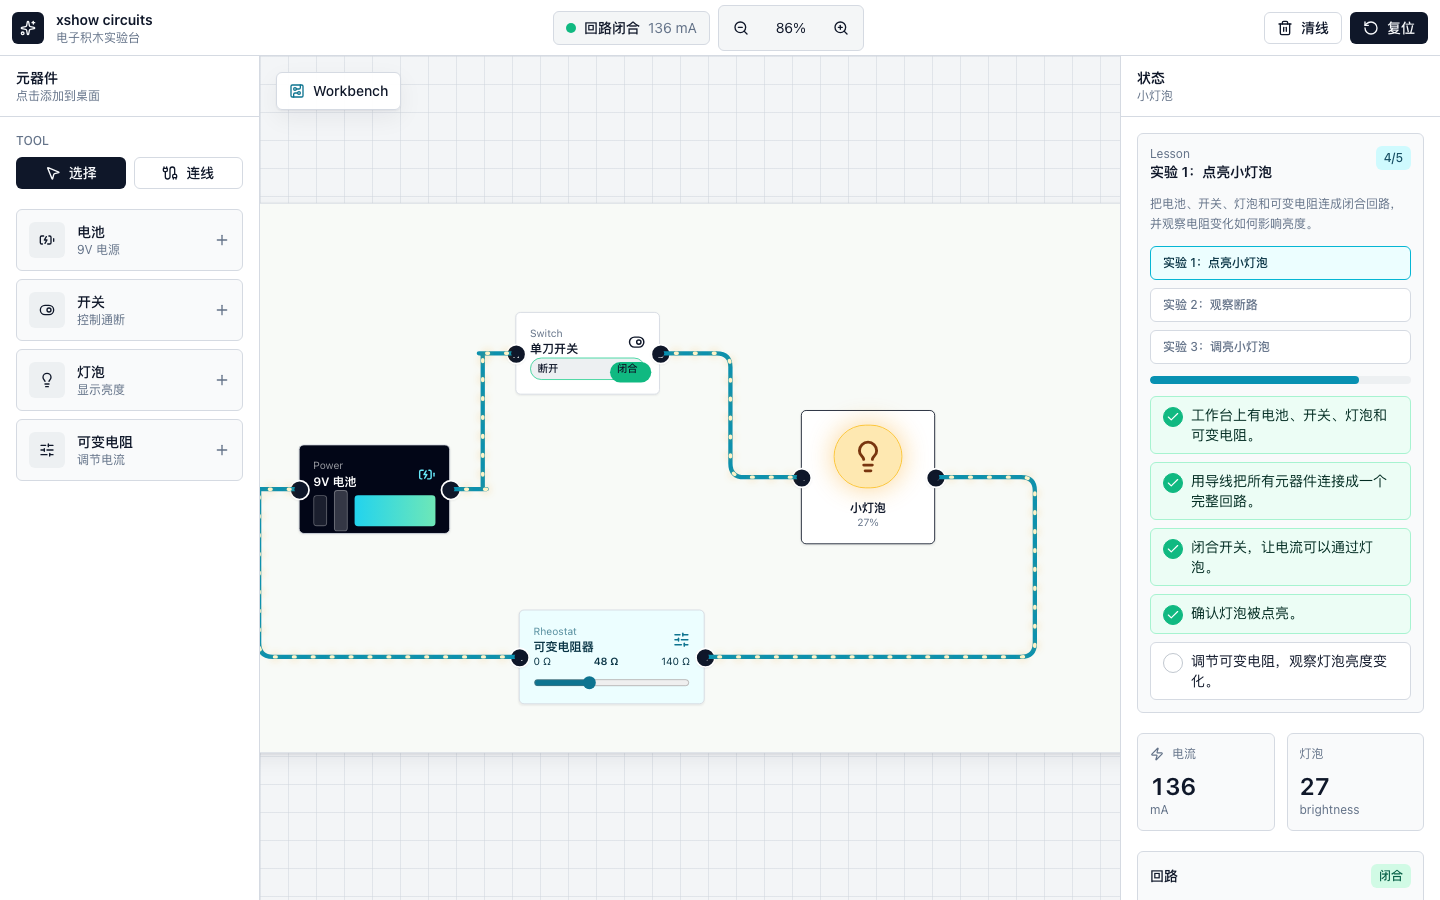
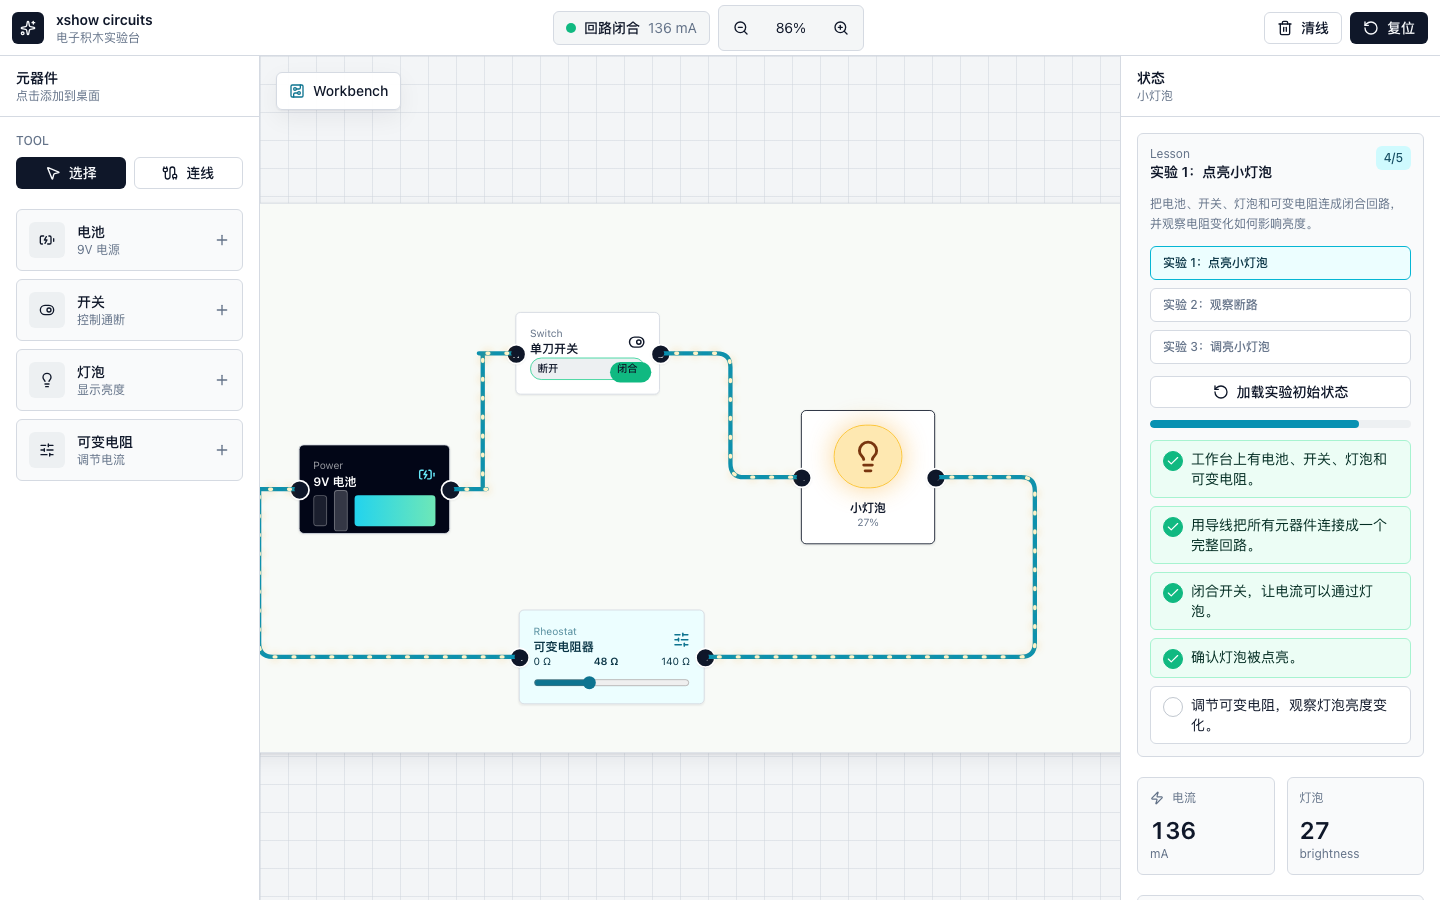
feat: add lesson starter workspaces

Changed region(s): [[0.7812, 0.4044, 1.0, 0.9956], [0.7812, 0.9644, 0.8438, 0.9956]]

diff --git a/src/views/Home.vue b/src/views/Home.vue
@@ -1,6 +1,6 @@
 <script setup lang="ts">
 import { computed, ref } from "vue";
-import { lessonCatalog, type LessonCheckId } from "@/data/lessons";
+import { lessonCatalog, type LessonCheckId, type LessonWorkspace } from "@/data/lessons";
 import {
   BatteryCharging,
   Cable,
@@ -237,6 +237,16 @@ const lessonProgress = computed(() => {
     total,
   };
 });
+
+function clearInteractionState() {
+  selectedTerminal.value = null;
+  selectedWireId.value = null;
+  hoveredWireId.value = null;
+  hoveredEndpoint.value = null;
+  rewiring.value = null;
+  endpointDrag.value = null;
+  dragging.value = null;
+}
 
 function getSpec(part: CircuitPart | PartType) {
   return partSpecs[typeof part === "string" ? part : part.type];
@@ -795,11 +805,7 @@ function addPart(type: PartType) {
   }
 
   parts.value.push(nextPart);
-  selectedWireId.value = null;
-  hoveredWireId.value = null;
-  hoveredEndpoint.value = null;
-  rewiring.value = null;
-  endpointDrag.value = null;
+  clearInteractionState();
   selectedPartId.value = nextPart.id;
   board.setTool("select");
 }
@@ -815,10 +821,7 @@ function removeSelectedPart() {
     (wire) => wire.from.partId !== selected.id && wire.to.partId !== selected.id,
   );
   selectedPartId.value = parts.value[0]?.id ?? "";
-  selectedTerminal.value = null;
-  selectedWireId.value = null;
-  rewiring.value = null;
-  endpointDrag.value = null;
+  clearInteractionState();
 }
 
 function removeWire(wireId: string) {
@@ -846,52 +849,34 @@ function removeWire(wireId: string) {
 
 function clearWires() {
   wires.value = [];
-  selectedTerminal.value = null;
-  selectedWireId.value = null;
-  hoveredWireId.value = null;
-  hoveredEndpoint.value = null;
-  rewiring.value = null;
-  endpointDrag.value = null;
+  clearInteractionState();
+}
+
+function loadWorkspace(workspace: LessonWorkspace) {
+  parts.value = workspace.parts.map((part) => ({ ...part }));
+  wires.value = workspace.wires.map((wire) => ({
+    ...wire,
+    from: { ...wire.from },
+    to: { ...wire.to },
+  }));
+  selectedPartId.value = workspace.selectedPartId;
+  clearInteractionState();
+  board.setZoom(workspace.zoom);
+  board.setTool("select");
+}
+
+function loadLessonWorkspace(lessonId = activeLesson.value.id) {
+  const lesson = lessonCatalog.find((item) => item.id === lessonId) ?? activeLesson.value;
+  activeLessonId.value = lesson.id;
+  loadWorkspace(lesson.starterWorkspace);
 }
 
 function resetDemo() {
-  parts.value = [
-    { id: "battery-1", name: "9V 电池", type: "battery", x: 74, y: 280 },
-    { id: "switch-1", name: "单刀开关", type: "switch", x: 326, y: 126, closed: true },
-    { id: "bulb-1", name: "小灯泡", type: "bulb", x: 658, y: 240 },
-    { id: "resistor-1", name: "可变电阻器", type: "resistor", x: 330, y: 472, resistance: 48 },
-  ];
-  wires.value = [
-    {
-      id: "wire-1",
-      from: { partId: "battery-1", terminal: "b" },
-      to: { partId: "switch-1", terminal: "a" },
-    },
-    {
-      id: "wire-2",
-      from: { partId: "switch-1", terminal: "b" },
-      to: { partId: "bulb-1", terminal: "a" },
-    },
-    {
-      id: "wire-3",
-      from: { partId: "bulb-1", terminal: "b" },
-      to: { partId: "resistor-1", terminal: "b" },
-    },
-    {
-      id: "wire-4",
-      from: { partId: "resistor-1", terminal: "a" },
-      to: { partId: "battery-1", terminal: "a" },
-    },
-  ];
-  selectedPartId.value = "bulb-1";
-  selectedTerminal.value = null;
-  selectedWireId.value = null;
-  hoveredWireId.value = null;
-  hoveredEndpoint.value = null;
-  rewiring.value = null;
-  endpointDrag.value = null;
-  board.setZoom(86);
-  board.setTool("select");
+  const demoLesson = lessonCatalog.find((lesson) => lesson.id === "open-the-circuit") ?? lessonCatalog[0];
+  loadWorkspace({
+    ...demoLesson.starterWorkspace,
+    selectedPartId: "bulb-1",
+  });
 }
 
 function toggleSwitch(part: CircuitPart) {
@@ -1396,6 +1381,10 @@ function evaluateCircuit(sourceParts: CircuitPart[], sourceWires: Wire[]) {
                 <span class="block truncate font-medium">{{ lesson.title }}</span>
               </button>
             </div>
+            <Button class="mb-3 w-full" variant="outline" size="sm" @click="loadLessonWorkspace()">
+              <RotateCcw class="h-4 w-4" />
+              加载实验初始状态
+            </Button>
             <div class="mb-3 h-2 overflow-hidden rounded-full bg-muted">
               <div
                 class="h-full rounded-full bg-cyan-600 transition-all"

diff --git a/src/data/lessons.ts b/src/data/lessons.ts
@@ -10,6 +10,39 @@ export type LessonCheckId =
   | "hasLowResistance"
   | "hasAdjustedResistor";
 
+export type LessonPartType = "battery" | "bulb" | "switch" | "resistor";
+
+export type LessonTerminalKey = "a" | "b";
+
+export type LessonWorkspacePart = {
+  closed?: boolean;
+  id: string;
+  name: string;
+  resistance?: number;
+  type: LessonPartType;
+  x: number;
+  y: number;
+};
+
+export type LessonWorkspaceWire = {
+  from: {
+    partId: string;
+    terminal: LessonTerminalKey;
+  };
+  id: string;
+  to: {
+    partId: string;
+    terminal: LessonTerminalKey;
+  };
+};
+
+export type LessonWorkspace = {
+  parts: LessonWorkspacePart[];
+  selectedPartId: string;
+  wires: LessonWorkspaceWire[];
+  zoom: number;
+};
+
 export type LessonStep = {
   checkId: LessonCheckId;
   description: string;
@@ -19,15 +52,54 @@ export type LessonStep = {
 export type Lesson = {
   id: string;
   objective: string;
+  starterWorkspace: LessonWorkspace;
   steps: LessonStep[];
   title: string;
 };
+
+const connectedLoopWires: LessonWorkspaceWire[] = [
+  {
+    id: "wire-1",
+    from: { partId: "battery-1", terminal: "b" },
+    to: { partId: "switch-1", terminal: "a" },
+  },
+  {
+    id: "wire-2",
+    from: { partId: "switch-1", terminal: "b" },
+    to: { partId: "bulb-1", terminal: "a" },
+  },
+  {
+    id: "wire-3",
+    from: { partId: "bulb-1", terminal: "b" },
+    to: { partId: "resistor-1", terminal: "b" },
+  },
+  {
+    id: "wire-4",
+    from: { partId: "resistor-1", terminal: "a" },
+    to: { partId: "battery-1", terminal: "a" },
+  },
+];
+
+function starterParts({ resistance = 48, switchClosed = true } = {}): LessonWorkspacePart[] {
+  return [
+    { id: "battery-1", name: "9V 电池", type: "battery", x: 74, y: 280 },
+    { id: "switch-1", name: "单刀开关", type: "switch", x: 326, y: 126, closed: switchClosed },
+    { id: "bulb-1", name: "小灯泡", type: "bulb", x: 658, y: 240 },
+    { id: "resistor-1", name: "可变电阻器", type: "resistor", x: 330, y: 472, resistance },
+  ];
+}
 
 export const lessonCatalog: Lesson[] = [
   {
     id: "light-the-bulb",
     title: "实验 1：点亮小灯泡",
     objective: "把电池、开关、灯泡和可变电阻连成闭合回路，并观察电阻变化如何影响亮度。",
+    starterWorkspace: {
+      parts: starterParts(),
+      selectedPartId: "battery-1",
+      wires: [],
+      zoom: 86,
+    },
     steps: [
       {
         id: "parts",
@@ -60,6 +132,12 @@ export const lessonCatalog: Lesson[] = [
     id: "open-the-circuit",
     title: "实验 2：观察断路",
     objective: "通过开关断开回路，观察电流动画和灯泡亮度如何立即消失。",
+    starterWorkspace: {
+      parts: starterParts(),
+      selectedPartId: "switch-1",
+      wires: connectedLoopWires,
+      zoom: 86,
+    },
     steps: [
       {
         id: "parts",
@@ -87,6 +165,12 @@ export const lessonCatalog: Lesson[] = [
     id: "dim-the-bulb",
     title: "实验 3：调亮小灯泡",
     objective: "保持回路闭合，降低可变电阻阻值，观察灯泡亮度随电流增强而变亮。",
+    starterWorkspace: {
+      parts: starterParts({ resistance: 96 }),
+      selectedPartId: "resistor-1",
+      wires: connectedLoopWires,
+      zoom: 86,
+    },
     steps: [
       {
         id: "closed-switch",

diff --git a/docs/ROADMAP.md b/docs/ROADMAP.md
@@ -8,14 +8,14 @@ The project should stay visual, approachable, and immediate: users should be abl
 
 ## Progress
 
-Current focus: **expanding guided lessons, circuit examples, and lesson starters**.
+Current focus: **expanding circuit examples and guided lesson starters**.
 
 | Area | Status | Notes |
 | --- | --- | --- |
 | Interactive circuit playground | Done | Battery, switch, bulb, resistor, wires, brightness, and circuit state are working. |
 | Wire selection and reconnecting | Done for v0.1 | Wires can be selected, deleted, reconnected, snapped to nearby terminals, show clearer hover/drag/drop feedback, and use more readable orthogonal routing. |
 | Current direction animation | Done | Closed circuits now show animated current flow on energized wires. Further polish remains possible. |
-| Guided lesson mode | Expanding | Lesson content lives in editable data, multiple lesson experiments are available, and the panel checks simple circuit goals automatically. |
+| Guided lesson mode | Expanding | Lesson content and starter workspaces live in editable data, multiple lesson experiments are available, and the panel checks simple circuit goals automatically. |
 
 ## Near Term
 
@@ -50,7 +50,8 @@ Status: **Expanding**
 - [x] Allow switching between multiple guided experiments
 - [x] Provide simple success checks, such as "the bulb is on"
 - [x] Keep lesson content editable in plain data files
-- [ ] Add one-click starter workspaces for each lesson
+- [x] Add one-click starter workspaces for each lesson
+- [ ] Add lesson-level hints for the next incomplete step
 
 ### More circuit examples
 

diff --git a/docs/ROADMAP.zh-CN.md b/docs/ROADMAP.zh-CN.md
@@ -6,14 +6,14 @@
 
 ## 当前进度
 
-当前重点：**扩展引导式实验、电路示例和实验初始状态**。
+当前重点：**扩展电路示例和引导式实验初始状态**。
 
 | 方向 | 状态 | 说明 |
 | --- | --- | --- |
 | 交互式电路实验台 | 已完成 | 电池、开关、灯泡、可变电阻、导线、亮度和回路状态已经可用。 |
 | 导线选择和重接 | v0.1 已完成 | 导线可以选中、删除、拖动端点重接，也会吸附到附近端子，并且有更清晰的 hover、拖拽、释放反馈和更易读的正交折线走线。 |
 | 电流方向动画 | 已完成 | 闭合回路中的通电导线已经有电流流动动画，后续还可以继续优化表现。 |
-| 引导式实验课程模式 | 正在扩展 | 课程内容已经放在可编辑数据中，现在可以切换多个实验，课程面板会自动检查简单电路目标。 |
+| 引导式实验课程模式 | 正在扩展 | 课程内容和实验初始工作区已经放在可编辑数据中，现在可以切换多个实验，课程面板会自动检查简单电路目标。 |
 
 ## 近期方向
 
@@ -48,7 +48,8 @@
 - [x] 可以在多个引导式实验之间切换
 - [x] 支持简单的成功判断，比如“灯泡已经点亮”
 - [x] 课程内容应放在可编辑的数据文件中，避免写死在组件里
-- [ ] 为每个实验增加一键加载初始工作区
+- [x] 为每个实验增加一键加载初始工作区
+- [ ] 为当前未完成步骤增加课程提示
 
 ### 更多电路示例
 

diff --git a/README.md b/README.md
@@ -17,6 +17,7 @@ An interactive electronic brick circuit playground built with Vue 3, Vite, TypeS
 - Simulate bulb brightness from circuit state and resistance
 - Animate current flow on energized wires
 - Switch between guided lesson experiments with automatic step checks
+- Load a lesson starter workspace with one click
 - Display circuit status, current, equivalent resistance, and brightness
 - Reset to a ready-made demo circuit
 
@@ -84,11 +85,12 @@ See [CONTRIBUTING.md](CONTRIBUTING.md). Documentation changes should keep Englis
 
 Near-term priorities:
 
-- Current focus: expand guided lessons, circuit examples, and lesson starters
+- Current focus: expand circuit examples and guided lesson starters
 - Done for v0.1: current direction animation
 - Done for v0.1: guided lesson mode first slice
 - Done for v0.1: multiple guided lesson experiments
-- Next major area: lesson starter workspaces and more components
+- Done for v0.1: one-click lesson starter workspaces
+- Next major area: series and parallel circuit examples
 
 ## License
 

diff --git a/README.zh-CN.md b/README.zh-CN.md
@@ -15,6 +15,7 @@
 - 拖动可变电阻滑杆改变灯泡亮度
 - 在通电导线上显示电流流动动画
 - 在多个引导式实验之间切换，并自动检查实验步骤
+- 一键加载实验初始工作区
 - 显示回路状态、电流、等效电阻和灯泡亮度
 - 一键清空导线或恢复默认演示电路
 
@@ -81,11 +82,12 @@ pnpm preview
 
 近期优先级：
 
-- 当前重点：扩展引导式实验、电路示例和实验初始状态
+- 当前重点：扩展电路示例和引导式实验初始状态
 - v0.1 已完成：电流方向动画
 - v0.1 已完成：引导式实验课程模式第一版
 - v0.1 已完成：多个引导式实验
-- 下一个大方向：实验初始工作区和更多元器件
+- v0.1 已完成：一键加载实验初始工作区
+- 下一个大方向：串联和并联电路示例
 
 ## 许可证
 

diff --git a/docs/issue-drafts/guided-lesson-mode.md b/docs/issue-drafts/guided-lesson-mode.md
@@ -15,8 +15,9 @@ Add a lesson mode that presents step-by-step tasks and checks whether the circui
 - [x] Multiple guided experiments can be selected from the lesson panel
 - [x] The app can detect simple success states, such as the bulb being on
 - [x] Lesson content is stored in editable data rather than hardcoded UI text
+- [x] Each lesson can load a matching starter workspace
 - [x] Free play remains available without entering lesson mode
 
 ## Notes
 
-Keep lessons short and visual. The goal is to guide discovery, not build a textbook inside the app. Next polish: let each lesson load a matching starter workspace.
+Keep lessons short and visual. The goal is to guide discovery, not build a textbook inside the app. Next polish: add contextual hints for the next incomplete step.

diff --git a/docs/issue-drafts/guided-lesson-mode.zh-CN.md b/docs/issue-drafts/guided-lesson-mode.zh-CN.md
@@ -15,8 +15,9 @@
 - [x] 可以在课程面板里选择多个引导式实验
 - [x] 应用可以检测简单成功状态，比如“灯泡已经点亮”
 - [x] 课程内容存储在可编辑的数据文件中，而不是写死在 UI 组件里
+- [x] 每个实验可以加载对应的初始工作区
 - [x] 用户仍然可以不进入课程模式，直接自由探索
 
 ## 备注
 
-课程应该短小、视觉化。目标是引导发现，而不是在应用里塞一本教材。下一步可以让每个实验加载对应的初始工作区。
+课程应该短小、视觉化。目标是引导发现，而不是在应用里塞一本教材。下一步可以为当前未完成步骤增加上下文提示。